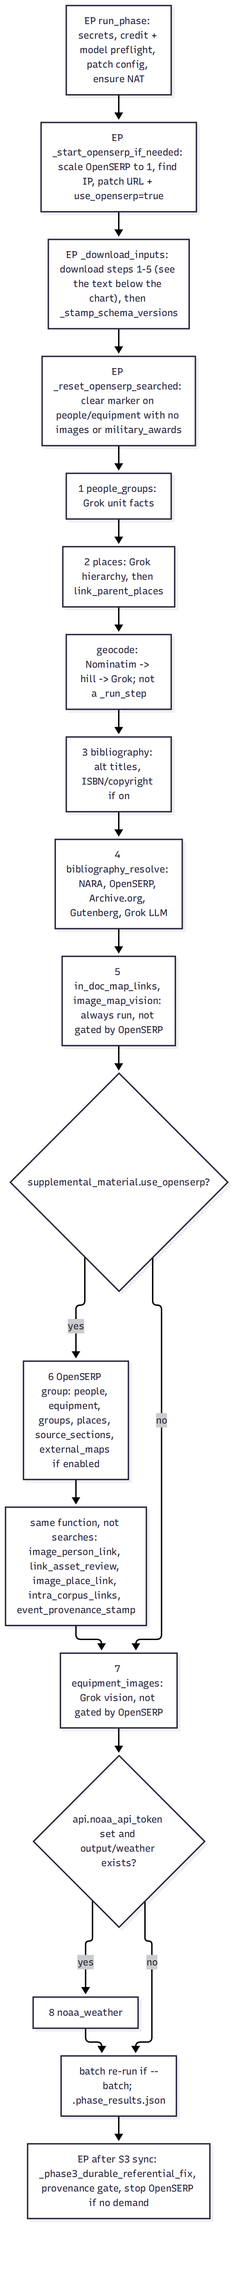
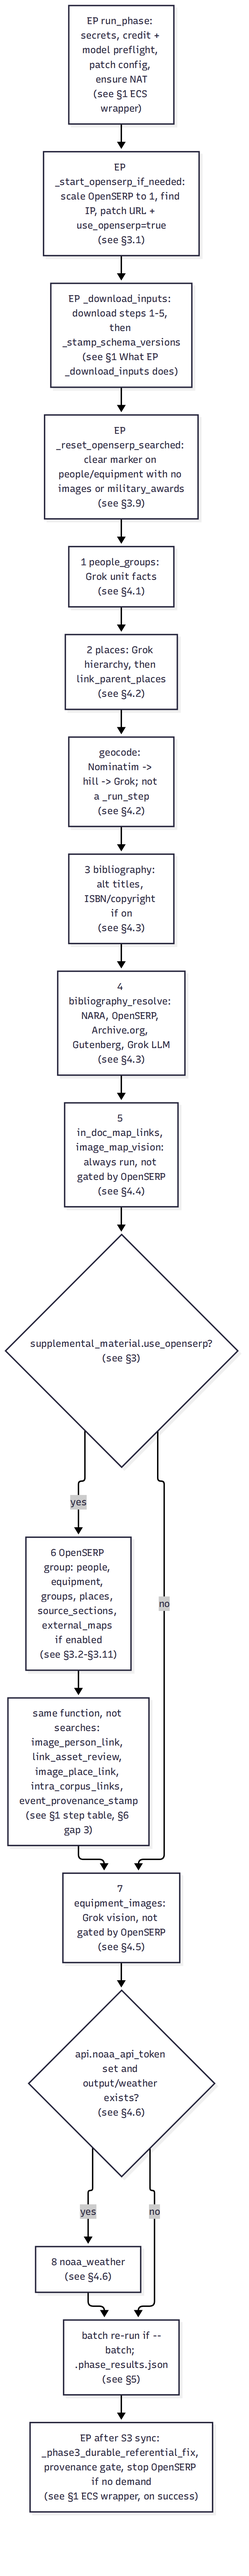
docs(PHASE3_MAP): each chart box names the section that describes it (GitHub Mermaid boxes are not clickable) (#758)

diff --git a/docs/current/core/PHASE3_MAP.md b/docs/current/core/PHASE3_MAP.md
@@ -31,31 +31,32 @@ skips all of them and only writes the results file.
 
 ```mermaid
 flowchart TD
-  EPS["EP run_phase: secrets, credit + model preflight, patch config, ensure NAT"] --> UP["EP _start_openserp_if_needed: scale OpenSERP to 1, find IP, patch URL + use_openserp=true"]
-  UP --> DL["EP _download_inputs: download steps 1-5 (see the text below the chart), then _stamp_schema_versions"]
-  DL --> RESET["EP _reset_openserp_searched: clear marker on people/equipment with no images or military_awards"]
-  RESET --> G1["1 people_groups: Grok unit facts"]
-  G1 --> PL["2 places: Grok hierarchy, then link_parent_places"]
-  PL --> GEO["geocode: Nominatim -> hill -> Grok; not a _run_step"]
-  GEO --> BIB["3 bibliography: alt titles, ISBN/copyright if on"]
-  BIB --> BRES["4 bibliography_resolve: NARA, OpenSERP, Archive.org, Gutenberg, Grok LLM"]
-  BRES --> MEDIA["5 in_doc_map_links, image_map_vision: always run, not gated by OpenSERP"]
-  MEDIA --> OS{"supplemental_material.use_openserp?"}
-  OS -- yes --> OSG["6 OpenSERP group: people, equipment, groups, places, source_sections, external_maps if enabled"]
-  OSG --> NS["same function, not searches: image_person_link, link_asset_review, image_place_link, intra_corpus_links, event_provenance_stamp"]
+  EPS["EP run_phase: secrets, credit + model preflight, patch config, ensure NAT<br/>(see §1 ECS wrapper)"] --> UP["EP _start_openserp_if_needed: scale OpenSERP to 1, find IP, patch URL + use_openserp=true<br/>(see §3.1)"]
+  UP --> DL["EP _download_inputs: download steps 1-5, then _stamp_schema_versions<br/>(see §1 What EP _download_inputs does)"]
+  DL --> RESET["EP _reset_openserp_searched: clear marker on people/equipment with no images or military_awards<br/>(see §3.9)"]
+  RESET --> G1["1 people_groups: Grok unit facts<br/>(see §4.1)"]
+  G1 --> PL["2 places: Grok hierarchy, then link_parent_places<br/>(see §4.2)"]
+  PL --> GEO["geocode: Nominatim -> hill -> Grok; not a _run_step<br/>(see §4.2)"]
+  GEO --> BIB["3 bibliography: alt titles, ISBN/copyright if on<br/>(see §4.3)"]
+  BIB --> BRES["4 bibliography_resolve: NARA, OpenSERP, Archive.org, Gutenberg, Grok LLM<br/>(see §4.3)"]
+  BRES --> MEDIA["5 in_doc_map_links, image_map_vision: always run, not gated by OpenSERP<br/>(see §4.4)"]
+  MEDIA --> OS{"supplemental_material.use_openserp?<br/>(see §3)"}
+  OS -- yes --> OSG["6 OpenSERP group: people, equipment, groups, places, source_sections, external_maps if enabled<br/>(see §3.2-§3.11)"]
+  OSG --> NS["same function, not searches: image_person_link, link_asset_review, image_place_link, intra_corpus_links, event_provenance_stamp<br/>(see §1 step table, §6 gap 3)"]
   OS -- no --> EQ
-  NS --> EQ["7 equipment_images: Grok vision, not gated by OpenSERP"]
-  EQ --> NOAA{"api.noaa_api_token set and output/weather exists?"}
-  NOAA -- yes --> W["8 noaa_weather"]
+  NS --> EQ["7 equipment_images: Grok vision, not gated by OpenSERP<br/>(see §4.5)"]
+  EQ --> NOAA{"api.noaa_api_token set and output/weather exists?<br/>(see §4.6)"}
+  NOAA -- yes --> W["8 noaa_weather<br/>(see §4.6)"]
   NOAA -- no --> RES
-  W --> RES["batch re-run if --batch; .phase_results.json"]
-  RES --> POST["EP after S3 sync: _phase3_durable_referential_fix, provenance gate, stop OpenSERP if no demand"]
-  click DL href "https://github.com/elasticfusion/SecondWorldWarAsData/blob/main/docs/current/core/PHASE3_MAP.md#what-ep-_download_inputs-does" "What EP _download_inputs does: steps 1-5" _blank
+  W --> RES["batch re-run if --batch; .phase_results.json<br/>(see §5)"]
+  RES --> POST["EP after S3 sync: _phase3_durable_referential_fix, provenance gate, stop OpenSERP if no demand<br/>(see §1 ECS wrapper, on success)"]
 ```
 
-**From the chart:** the `EP _download_inputs` box is described step by step (1-5) in
-[What `EP _download_inputs` does](#what-ep-_download_inputs-does). The box links there too: on GitHub a
-plain click on it does nothing, but Ctrl-click (Cmd-click on a Mac) opens the section in a new tab.
+**From the chart:** each box names the section that describes it (GitHub does not make Mermaid boxes
+clickable). The main ones: [ECS wrapper](#ecs-wrapper-eprun_phase-lines-975-1000),
+[What `EP _download_inputs` does](#what-ep-_download_inputs-does) (steps 1-5),
+[3. OpenSERP in detail](#3-openserp-in-detail), [4. Other enrichers](#4-other-enrichers),
+[5. Batch mode](#5-batch-mode), [6. Known gaps and findings](#6-known-gaps-and-findings).
 
 Order in `P3:main()` (lines 873-960): people_groups; places and link_parent_places and geocode
 (`_enrich_places_and_geocode`, line 145); bibliography; bibliography_resolve; document media; OpenSERP
